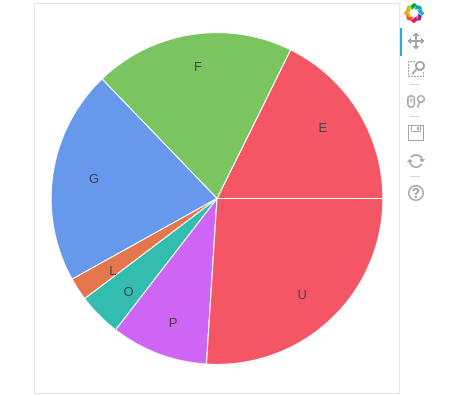
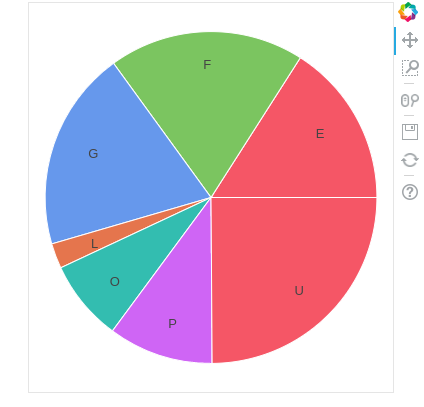
changes were made

diff --git a/unrulyKnife_handin/a4.html b/unrulyKnife_handin/a4.html
@@ -26,15 +26,15 @@
     <body>
         
         <div class="bk-root">
-            <div class="bk-plotdiv" id="43adadaa-faee-463e-aaec-c5a1b75397cf"></div>
+            <div class="bk-plotdiv" id="140623b5-bc2c-47ed-b11b-80e3089bc52a"></div>
         </div>
         
         <script type="text/javascript">
             (function() {
           var fn = function() {
             Bokeh.safely(function() {
-              var docs_json = {"875dd820-d1a1-437a-a81e-b20cfb785678":{"roots":{"references":[{"attributes":{"plot":{"id":"9c255a0e-9394-4c32-9003-af0ea291a616","subtype":"Chart","type":"Plot"}},"id":"dca6a10a-8a8c-454a-bbb3-a89406da1f71","type":"HelpTool"},{"attributes":{"data_source":{"id":"0a10d147-8fdd-451e-97fd-2fd7e8b453be","type":"ColumnDataSource"},"glyph":{"id":"47d65bca-f410-4660-b6fe-c3e8e40a8a88","type":"Text"},"hover_glyph":null,"nonselection_glyph":null,"selection_glyph":null},"id":"07688129-00a7-4372-8e9c-f9334fce94ef","type":"GlyphRenderer"},{"attributes":{"plot":null,"text":null},"id":"bf9a6e50-66f0-4069-9a17-201d7c702487","type":"Title"},{"attributes":{"axis_label":null,"formatter":{"id":"fe5fdea6-e2db-4760-bb75-318dc258be4e","type":"BasicTickFormatter"},"plot":{"id":"9c255a0e-9394-4c32-9003-af0ea291a616","subtype":"Chart","type":"Plot"},"ticker":{"id":"90c7129d-2006-4aa3-887c-f505866aa7b2","type":"BasicTicker"},"visible":false},"id":"db4fdbcd-8b72-43b2-815c-add5cf9eb98a","type":"LinearAxis"},{"attributes":{"end_angle":{"field":"end","units":"rad"},"fill_alpha":{"value":0.8},"fill_color":{"field":"color"},"inner_radius":{"field":"inners","units":"data"},"line_color":{"value":"White"},"outer_radius":{"field":"outers","units":"data"},"start_angle":{"field":"start","units":"rad"},"x":{"value":0},"y":{"value":0}},"id":"df8784a9-541f-466d-b1ca-5e2efda7850a","type":"AnnularWedge"},{"attributes":{"plot":{"id":"9c255a0e-9394-4c32-9003-af0ea291a616","subtype":"Chart","type":"Plot"}},"id":"a81dde85-016a-4b09-8049-12222d3306bf","type":"SaveTool"},{"attributes":{"location":"top_left","plot":{"id":"9c255a0e-9394-4c32-9003-af0ea291a616","subtype":"Chart","type":"Plot"}},"id":"e1e2b93a-9b86-49b9-98b2-f8b719abe668","type":"Legend"},{"attributes":{"angle":{"field":"text_angle","units":"rad"},"text_align":"center","text_baseline":"middle","text_font_size":{"value":"10pt"},"x":{"field":"x"},"y":{"field":"y"}},"id":"47d65bca-f410-4660-b6fe-c3e8e40a8a88","type":"Text"},{"attributes":{},"id":"12a9f362-20df-4410-88e2-b8fc9ae25949","type":"ToolEvents"},{"attributes":{"plot":{"id":"9c255a0e-9394-4c32-9003-af0ea291a616","subtype":"Chart","type":"Plot"}},"id":"a7ec6ef1-b2cd-4ac0-b4bd-f490841b362b","type":"ResetTool"},{"attributes":{"plot":{"id":"9c255a0e-9394-4c32-9003-af0ea291a616","subtype":"Chart","type":"Plot"}},"id":"0bc229b0-18a6-4c63-aaa8-ef592915cbe6","type":"PanTool"},{"attributes":{},"id":"073ce6a6-d58b-4711-a9ef-c3678ce6b7d9","type":"BasicTickFormatter"},{"attributes":{"callback":null,"column_names":["text_angle","x","y","text"],"data":{"text":["E","F","G","L","O","P","U"],"text_angle":{"__ndarray__":"AAAAAAAAAAAAAAAAAAAAAAAAAAAAAAAAAAAAAAAAAAAAAAAAAAAAAAAAAAAAAAAAAAAAAAAAAAA=","dtype":"float64","shape":[7]},"x":[0.9558111349576609,-0.17171147100546963,-1.1126460779550813,-0.942287854003498,-0.7991047715059768,-0.3966649733696215,0.7697711428694992],"y":[0.5933380775670377,1.1118184072613377,0.16626396245481173,-0.6145881549440099,-0.7918690321993785,-1.0527496848262066,-0.8204129372489106]}},"id":"0a10d147-8fdd-451e-97fd-2fd7e8b453be","type":"ColumnDataSource"},{"attributes":{"callback":null,"end":1.6500000000000001,"start":-1.6500000000000001},"id":"7c8c5eb3-a257-49d4-bb2b-a17824dfcdf5","type":"Range1d"},{"attributes":{"callback":null,"end":1.6500000000000001,"start":-1.6500000000000001},"id":"1f951b59-e785-4c37-b9ac-c4e649af6f98","type":"Range1d"},{"attributes":{},"id":"1a2de085-6013-497b-a58a-50315034074e","type":"BasicTicker"},{"attributes":{"callback":null,"column_names":["level","color","outers","end","index","start","values","inners","centers"],"data":{"centers":[1.125,1.125,1.125,1.125,1.125,1.125,1.125],"color":["#f22c40","#5ab738","#407ee7","#df5320","#00ad9c","#c33ff3","#f22c40"],"end":[1.11110225699345,2.336953109797307,3.6495650960187884,3.789502407982699,4.055383300714129,4.64871750344111,6.283185307179585],"index":["E","F","G","L","O","P","U"],"inners":[0.0,0.0,0.0,0.0,0.0,0.0,0.0],"level":[0.0,0.0,0.0,0.0,0.0,0.0,0.0],"outers":[1.5,1.5,1.5,1.5,1.5,1.5,1.5],"start":[0.0,1.11110225699345,2.336953109797307,3.6495650960187884,3.789502407982699,4.055383300714129,4.64871750344111],"values":[397,438,469,50,95,212,584]}},"id":"95be9c75-cf43-4a0a-87e2-9548dee82414","type":"ColumnDataSource"},{"attributes":{},"id":"fe5fdea6-e2db-4760-bb75-318dc258be4e","type":"BasicTickFormatter"},{"attributes":{},"id":"90c7129d-2006-4aa3-887c-f505866aa7b2","type":"BasicTicker"},{"attributes":{"bottom_units":"screen","fill_alpha":{"value":0.5},"fill_color":{"value":"lightgrey"},"left_units":"screen","level":"overlay","line_alpha":{"value":1.0},"line_color":{"value":"black"},"line_dash":[4,4],"line_width":{"value":2},"plot":null,"render_mode":"css","right_units":"screen","top_units":"screen"},"id":"590880ae-5659-46cb-a637-c0cfc5eb8ae7","type":"BoxAnnotation"},{"attributes":{"below":[{"id":"91d59f93-e7bb-4e7b-b72d-23ff51191ba1","type":"LinearAxis"}],"css_classes":null,"left":[{"id":"db4fdbcd-8b72-43b2-815c-add5cf9eb98a","type":"LinearAxis"}],"plot_height":400,"plot_width":400,"renderers":[{"id":"590880ae-5659-46cb-a637-c0cfc5eb8ae7","type":"BoxAnnotation"},{"id":"4e4bb810-31c7-42b1-b5a5-7645d99550c3","type":"GlyphRenderer"},{"id":"07688129-00a7-4372-8e9c-f9334fce94ef","type":"GlyphRenderer"},{"id":"e1e2b93a-9b86-49b9-98b2-f8b719abe668","type":"Legend"},{"id":"91d59f93-e7bb-4e7b-b72d-23ff51191ba1","type":"LinearAxis"},{"id":"db4fdbcd-8b72-43b2-815c-add5cf9eb98a","type":"LinearAxis"}],"title":{"id":"bf9a6e50-66f0-4069-9a17-201d7c702487","type":"Title"},"tool_events":{"id":"12a9f362-20df-4410-88e2-b8fc9ae25949","type":"ToolEvents"},"toolbar":{"id":"017f299b-e52b-466f-b83d-bfbaa598bf63","type":"Toolbar"},"x_mapper_type":"auto","x_range":{"id":"1f951b59-e785-4c37-b9ac-c4e649af6f98","type":"Range1d"},"y_mapper_type":"auto","y_range":{"id":"7c8c5eb3-a257-49d4-bb2b-a17824dfcdf5","type":"Range1d"}},"id":"9c255a0e-9394-4c32-9003-af0ea291a616","subtype":"Chart","type":"Plot"},{"attributes":{"axis_label":null,"formatter":{"id":"073ce6a6-d58b-4711-a9ef-c3678ce6b7d9","type":"BasicTickFormatter"},"plot":{"id":"9c255a0e-9394-4c32-9003-af0ea291a616","subtype":"Chart","type":"Plot"},"ticker":{"id":"1a2de085-6013-497b-a58a-50315034074e","type":"BasicTicker"},"visible":false},"id":"91d59f93-e7bb-4e7b-b72d-23ff51191ba1","type":"LinearAxis"},{"attributes":{"data_source":{"id":"95be9c75-cf43-4a0a-87e2-9548dee82414","type":"ColumnDataSource"},"glyph":{"id":"df8784a9-541f-466d-b1ca-5e2efda7850a","type":"AnnularWedge"},"hover_glyph":null,"nonselection_glyph":null,"selection_glyph":null},"id":"4e4bb810-31c7-42b1-b5a5-7645d99550c3","type":"GlyphRenderer"},{"attributes":{"overlay":{"id":"590880ae-5659-46cb-a637-c0cfc5eb8ae7","type":"BoxAnnotation"},"plot":{"id":"9c255a0e-9394-4c32-9003-af0ea291a616","subtype":"Chart","type":"Plot"}},"id":"4c5f7891-bfd7-457e-84f5-e414cbbeffde","type":"BoxZoomTool"},{"attributes":{"plot":{"id":"9c255a0e-9394-4c32-9003-af0ea291a616","subtype":"Chart","type":"Plot"}},"id":"f903d648-155a-4652-a8e0-5dbcacd820e4","type":"WheelZoomTool"},{"attributes":{"active_drag":"auto","active_scroll":"auto","active_tap":"auto","tools":[{"id":"0bc229b0-18a6-4c63-aaa8-ef592915cbe6","type":"PanTool"},{"id":"f903d648-155a-4652-a8e0-5dbcacd820e4","type":"WheelZoomTool"},{"id":"4c5f7891-bfd7-457e-84f5-e414cbbeffde","type":"BoxZoomTool"},{"id":"a81dde85-016a-4b09-8049-12222d3306bf","type":"SaveTool"},{"id":"a7ec6ef1-b2cd-4ac0-b4bd-f490841b362b","type":"ResetTool"},{"id":"dca6a10a-8a8c-454a-bbb3-a89406da1f71","type":"HelpTool"}]},"id":"017f299b-e52b-466f-b83d-bfbaa598bf63","type":"Toolbar"}],"root_ids":["9c255a0e-9394-4c32-9003-af0ea291a616"]},"title":"Bokeh Application","version":"0.12.4"}};
-              var render_items = [{"docid":"875dd820-d1a1-437a-a81e-b20cfb785678","elementid":"43adadaa-faee-463e-aaec-c5a1b75397cf","modelid":"9c255a0e-9394-4c32-9003-af0ea291a616"}];
+              var docs_json = {"d72fa5df-7e45-4ac9-922e-7e686349b089":{"roots":{"references":[{"attributes":{"bottom_units":"screen","fill_alpha":{"value":0.5},"fill_color":{"value":"lightgrey"},"left_units":"screen","level":"overlay","line_alpha":{"value":1.0},"line_color":{"value":"black"},"line_dash":[4,4],"line_width":{"value":2},"plot":null,"render_mode":"css","right_units":"screen","top_units":"screen"},"id":"784a65ad-431e-4e6e-ae29-446329aa564c","type":"BoxAnnotation"},{"attributes":{"data_source":{"id":"ce9efe69-03ee-4c74-83d9-3f347aed7d06","type":"ColumnDataSource"},"glyph":{"id":"ddaa66cf-bb9c-4233-af57-e38f7945f7e0","type":"Text"},"hover_glyph":null,"nonselection_glyph":null,"selection_glyph":null},"id":"ae2ac125-57be-482e-afa3-7c297a2d5eb5","type":"GlyphRenderer"},{"attributes":{"data_source":{"id":"ddb7f9cc-bc6a-4af8-85d3-99967cbf1da8","type":"ColumnDataSource"},"glyph":{"id":"21f7b47b-29fe-4cc2-9ca9-334f95d6ca33","type":"AnnularWedge"},"hover_glyph":null,"nonselection_glyph":null,"selection_glyph":null},"id":"8a004ef6-fcaf-4b4e-9126-8626502d3164","type":"GlyphRenderer"},{"attributes":{},"id":"a771e294-466e-428b-8778-9d252d7fe5d7","type":"BasicTicker"},{"attributes":{"plot":{"id":"76908466-d426-457d-bf74-8a46893a1151","subtype":"Chart","type":"Plot"}},"id":"3de616df-3712-479d-ac63-dfe824d41ad2","type":"SaveTool"},{"attributes":{"axis_label":null,"formatter":{"id":"1f433447-4c63-4057-8245-bbbb9584c398","type":"BasicTickFormatter"},"plot":{"id":"76908466-d426-457d-bf74-8a46893a1151","subtype":"Chart","type":"Plot"},"ticker":{"id":"f221703c-f76c-4d73-b91e-ebfbde8acdfd","type":"BasicTicker"},"visible":false},"id":"69fcd8e0-1239-4730-8219-b2ee506f739a","type":"LinearAxis"},{"attributes":{"below":[{"id":"d4aa7f0a-3291-49e7-a13d-1a1197a9975d","type":"LinearAxis"}],"css_classes":null,"left":[{"id":"69fcd8e0-1239-4730-8219-b2ee506f739a","type":"LinearAxis"}],"plot_height":400,"plot_width":400,"renderers":[{"id":"784a65ad-431e-4e6e-ae29-446329aa564c","type":"BoxAnnotation"},{"id":"8a004ef6-fcaf-4b4e-9126-8626502d3164","type":"GlyphRenderer"},{"id":"ae2ac125-57be-482e-afa3-7c297a2d5eb5","type":"GlyphRenderer"},{"id":"cb3b1f01-6e51-483b-80b0-dabd59f693a7","type":"Legend"},{"id":"d4aa7f0a-3291-49e7-a13d-1a1197a9975d","type":"LinearAxis"},{"id":"69fcd8e0-1239-4730-8219-b2ee506f739a","type":"LinearAxis"}],"title":{"id":"a952ccf3-9b60-4343-8037-7daa52e342bc","type":"Title"},"tool_events":{"id":"dfa03122-9952-4d1c-9fed-fdfb134568d8","type":"ToolEvents"},"toolbar":{"id":"4bb6ced1-c594-4406-9149-dc14fc5027d3","type":"Toolbar"},"x_mapper_type":"auto","x_range":{"id":"ce6349bb-1af3-480c-8b14-bca68c7fd8ed","type":"Range1d"},"y_mapper_type":"auto","y_range":{"id":"042034c6-b5fc-4156-8869-e7b1d7d456ba","type":"Range1d"}},"id":"76908466-d426-457d-bf74-8a46893a1151","subtype":"Chart","type":"Plot"},{"attributes":{"plot":{"id":"76908466-d426-457d-bf74-8a46893a1151","subtype":"Chart","type":"Plot"}},"id":"1db1d1d7-876d-4555-b7ba-10afda831b2e","type":"HelpTool"},{"attributes":{"plot":{"id":"76908466-d426-457d-bf74-8a46893a1151","subtype":"Chart","type":"Plot"}},"id":"becc373a-ddd6-4077-bb47-551c7f81e0da","type":"ResetTool"},{"attributes":{},"id":"dfa03122-9952-4d1c-9fed-fdfb134568d8","type":"ToolEvents"},{"attributes":{},"id":"f221703c-f76c-4d73-b91e-ebfbde8acdfd","type":"BasicTicker"},{"attributes":{"plot":null,"text":null},"id":"a952ccf3-9b60-4343-8037-7daa52e342bc","type":"Title"},{"attributes":{"end_angle":{"field":"end","units":"rad"},"fill_alpha":{"value":0.8},"fill_color":{"field":"color"},"inner_radius":{"field":"inners","units":"data"},"line_color":{"value":"White"},"outer_radius":{"field":"outers","units":"data"},"start_angle":{"field":"start","units":"rad"},"x":{"value":0},"y":{"value":0}},"id":"21f7b47b-29fe-4cc2-9ca9-334f95d6ca33","type":"AnnularWedge"},{"attributes":{"callback":null,"end":1.6500000000000001,"start":-1.6500000000000001},"id":"ce6349bb-1af3-480c-8b14-bca68c7fd8ed","type":"Range1d"},{"attributes":{"plot":{"id":"76908466-d426-457d-bf74-8a46893a1151","subtype":"Chart","type":"Plot"}},"id":"cad546c9-f229-41c1-863a-35a65b1db50a","type":"PanTool"},{"attributes":{"angle":{"field":"text_angle","units":"rad"},"text_align":"center","text_baseline":"middle","text_font_size":{"value":"10pt"},"x":{"field":"x"},"y":{"field":"y"}},"id":"ddaa66cf-bb9c-4233-af57-e38f7945f7e0","type":"Text"},{"attributes":{"callback":null,"end":1.6500000000000001,"start":-1.6500000000000001},"id":"042034c6-b5fc-4156-8869-e7b1d7d456ba","type":"Range1d"},{"attributes":{"axis_label":null,"formatter":{"id":"9a9f8665-a95a-4a1e-9783-2c9709f70b50","type":"BasicTickFormatter"},"plot":{"id":"76908466-d426-457d-bf74-8a46893a1151","subtype":"Chart","type":"Plot"},"ticker":{"id":"a771e294-466e-428b-8778-9d252d7fe5d7","type":"BasicTicker"},"visible":false},"id":"d4aa7f0a-3291-49e7-a13d-1a1197a9975d","type":"LinearAxis"},{"attributes":{"location":"top_left","plot":{"id":"76908466-d426-457d-bf74-8a46893a1151","subtype":"Chart","type":"Plot"}},"id":"cb3b1f01-6e51-483b-80b0-dabd59f693a7","type":"Legend"},{"attributes":{"overlay":{"id":"784a65ad-431e-4e6e-ae29-446329aa564c","type":"BoxAnnotation"},"plot":{"id":"76908466-d426-457d-bf74-8a46893a1151","subtype":"Chart","type":"Plot"}},"id":"dec4bf96-5974-4d36-86ae-b2564332380b","type":"BoxZoomTool"},{"attributes":{"plot":{"id":"76908466-d426-457d-bf74-8a46893a1151","subtype":"Chart","type":"Plot"}},"id":"d7139923-21be-4ce0-a213-bd6b1708b543","type":"WheelZoomTool"},{"attributes":{"callback":null,"column_names":["y","text_angle","text","x"],"data":{"text":["E","F","G","L","O","P","U"],"text_angle":{"__ndarray__":"AAAAAAAAAAAAAAAAAAAAAAAAAAAAAAAAAAAAAAAAAAAAAAAAAAAAAAAAAAAAAAAAAAAAAAAAAAA=","dtype":"float64","shape":[7]},"x":[0.9866929377120676,-0.033423463777094056,-1.0644591795119376,-1.0526374807976924,-0.8704194397542758,-0.3482221093853975,0.7981766611170148],"y":[0.5404276516511068,1.1245033890874412,0.36407644135919126,-0.39696263554632943,-0.7127376788818257,-1.069750607634875,-0.7928045267580743]}},"id":"ce9efe69-03ee-4c74-83d9-3f347aed7d06","type":"ColumnDataSource"},{"attributes":{"active_drag":"auto","active_scroll":"auto","active_tap":"auto","tools":[{"id":"cad546c9-f229-41c1-863a-35a65b1db50a","type":"PanTool"},{"id":"d7139923-21be-4ce0-a213-bd6b1708b543","type":"WheelZoomTool"},{"id":"dec4bf96-5974-4d36-86ae-b2564332380b","type":"BoxZoomTool"},{"id":"3de616df-3712-479d-ac63-dfe824d41ad2","type":"SaveTool"},{"id":"becc373a-ddd6-4077-bb47-551c7f81e0da","type":"ResetTool"},{"id":"1db1d1d7-876d-4555-b7ba-10afda831b2e","type":"HelpTool"}]},"id":"4bb6ced1-c594-4406-9149-dc14fc5027d3","type":"Toolbar"},{"attributes":{},"id":"9a9f8665-a95a-4a1e-9783-2c9709f70b50","type":"BasicTickFormatter"},{"attributes":{"callback":null,"column_names":["start","inners","outers","index","values","color","centers","end","level"],"data":{"centers":[1.125,1.125,1.125,1.125,1.125,1.125,1.125],"color":["#f22c40","#5ab738","#407ee7","#df5320","#00ad9c","#c33ff3","#f22c40"],"end":[1.002176160345497,2.1988447291677486,3.4252274159517264,3.57920057266249,4.07623672765864,4.719142189012355,6.283185307179586],"index":["E","F","G","L","O","P","U"],"inners":[0.0,0.0,0.0,0.0,0.0,0.0,0.0],"level":[0.0,0.0,0.0,0.0,0.0,0.0,0.0],"outers":[1.5,1.5,1.5,1.5,1.5,1.5,1.5],"start":[0.0,1.002176160345497,2.1988447291677486,3.4252274159517264,3.57920057266249,4.07623672765864,4.719142189012355],"values":[371,443,454,57,184,238,579]}},"id":"ddb7f9cc-bc6a-4af8-85d3-99967cbf1da8","type":"ColumnDataSource"},{"attributes":{},"id":"1f433447-4c63-4057-8245-bbbb9584c398","type":"BasicTickFormatter"}],"root_ids":["76908466-d426-457d-bf74-8a46893a1151"]},"title":"Bokeh Application","version":"0.12.4"}};
+              var render_items = [{"docid":"d72fa5df-7e45-4ac9-922e-7e686349b089","elementid":"140623b5-bc2c-47ed-b11b-80e3089bc52a","modelid":"76908466-d426-457d-bf74-8a46893a1151"}];
               
               Bokeh.embed.embed_items(docs_json, render_items);
             });

diff --git a/unrulyKnife_handin/a4.py b/unrulyKnife_handin/a4.py
@@ -24,7 +24,7 @@ pie1_chart = Donut(pie1_data)
 
 df_2015 = df[(df['AAR'] == 2015) & (df['BYDEL'] < 4)]
 df_2015.groupby(['CIVST', 'BYDEL', 'AAR'])['PERSONER'].sum()
-data_2015 = df_2000['CIVST'].value_counts()
+data_2015 = df_2015['CIVST'].value_counts()
 
 x,y = zip(*sorted(data_2015.items(),key=operator.itemgetter(1)))
 pie2_data = pd.Series(y,x)
